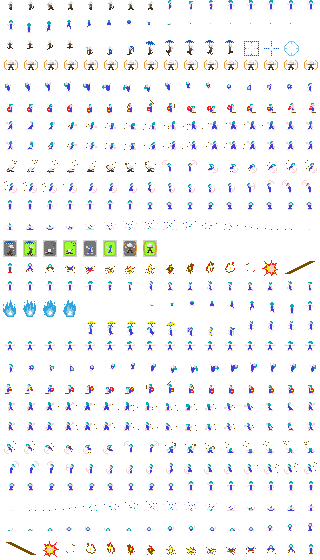
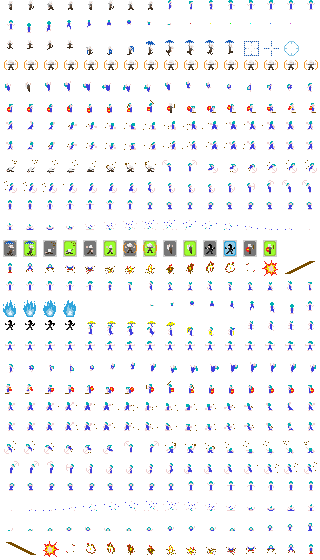
portal control + caster + all buttons + variable lemmingsIngame

Changed region(s): [[0.5, 0.425, 0.875, 0.4554], [0.5312, 0.1821, 0.5625, 0.2125], [0.0625, 0.1518, 0.0938, 0.1821]]

diff --git a/ExLemmings/Lemmings/02-Lemming/Scene.cpp b/ExLemmings/Lemmings/02-Lemming/Scene.cpp
@@ -51,7 +51,9 @@ void Scene::init()
 	spritesheetGatesOut.setMagFilter(GL_NEAREST);
 	
 
-	for (int i = 0; i < 10; i++) {
+	lemmingsInGame = 10;
+
+	for (int i = 0; i < lemmingsInGame; i++) {
 		lemming.init(glm::vec2(60, 30), simpleTexProgram, spritesheet);
 		lemming.setMapMask(&maskTexture);
 		listOflemmings.push_back(lemming);
@@ -81,10 +83,10 @@ void Scene::init()
 	startbombing = 0.0f;
 
 	loadedSkill = -1;
-	howmanyButtons = 4;
+	howmanyButtons = 7;
 	
 		for (int i = 0; i < howmanyButtons; i++) {
-		button.init(i, 30 + i * 30, 130, simpleTexProgram, spritesheet);
+		button.init(i, 100 + i * 30, 15, simpleTexProgram, spritesheet);
 		listOfButtons.push_back(button);
 		
 	}
@@ -102,7 +104,7 @@ void Scene::update(int deltaTime)
 		
 		
 	if (deathbybomb == 0) { //No es creen mes lemmings un cop s'activa la bomba
-		if (currentTime - lastLemming > 2000.0f && allCreatedLemm < 10) {
+		if (currentTime - lastLemming > 2000.0f && allCreatedLemm < lemmingsInGame) {
 			lastLemming = currentTime;
 			++howmanyLem;
 			++allCreatedLemm;
@@ -281,7 +283,14 @@ void Scene::mouseMoved(int mouseX, int mouseY, bool bLeftButton, bool bRightButt
 		if (bLeftButton) {
 			if (!settingPortal) { //No portal
 				if (loadedSkill != -1) {
-					give_skill(mouseX, mouseY, loadedSkill);
+					if (loadedSkill == 5) {
+						if (!first_portalOn) {
+							give_skill(mouseX, mouseY, loadedSkill);
+						}
+					}
+					else {
+						give_skill(mouseX, mouseY, loadedSkill);
+					}
 				}
 				int skill = loadSkill(mouseX, mouseY);
 				if (skill != -1) {

diff --git a/ExLemmings/Lemmings/02-Lemming/Lemming.cpp b/ExLemmings/Lemmings/02-Lemming/Lemming.cpp
@@ -94,8 +94,8 @@ void Lemming::init(const glm::vec2 &initialPosition, ShaderProgram &shaderProgra
 			sprite->addKeyframe(WINNING, glm::vec2(float(i) / 16.0f, 0.07142857143f * 1 / 2));
 
 		sprite->setAnimationSpeed(PORTAL, 8);
-		for (int i = 0; i < 16; i++)
-			sprite->addKeyframe(PORTAL, glm::vec2(float(i) / 16.0f, 0.07142857143f * 3 / 2));
+		for (int i = 0; i < 4; i++)
+			sprite->addKeyframe(PORTAL, glm::vec2(float(i) / 16.0f, 0.07142857143f * 16 / 2));
 		
 	//sprite->changeAnimation(WALKING_RIGHT);
 	sprite->changeAnimation(OPEN_UMBRELLA);
@@ -294,7 +294,6 @@ void Lemming::update(int deltaTime)
 		}
 		break;
 	case PORTAL_STATE:
-
 		break;
 	case WINNING_STATE:
 		

diff --git a/ExLemmings/Lemmings/02-Lemming/Portal.cpp b/ExLemmings/Lemmings/02-Lemming/Portal.cpp
@@ -25,7 +25,7 @@ void Portal::render() {
 
 bool Portal::contact(int lemX, int lemY) {
 	if ((pos.y - 2 < lemY) && (pos.y + 18 > lemY)) {
-		if ((pos.x + 5 < lemX) && (pos.x + 18 > lemX)) {
+		if ((pos.x - 3 < lemX) && (pos.x + 18 > lemX)) {
 			return true;
 		}
 	}

diff --git a/ExLemmings/Lemmings/02-Lemming/Game.cpp b/ExLemmings/Lemmings/02-Lemming/Game.cpp
@@ -10,7 +10,7 @@ void Game::init()
 	paused = false;
 	fastmode = false;
 	bLeftMouse = bRightMouse = bMiddleMouse = false;
-	glClearColor(0.0f, 0.0f, 0.0f, 1.0f);
+	glClearColor(0.7f, 0.7f, 0.7f, 1.0f);
 	//scene.init();
 	sceneaux.init();
 }

diff --git a/ExLemmings/Lemmings/02-Lemming/Scene.h b/ExLemmings/Lemmings/02-Lemming/Scene.h
@@ -44,6 +44,7 @@ private:
 	int loadSkill(int mouseX, int mouseY);
 
 private:
+	int lemmingsInGame;
 	Texture colorTexture;
 	VariableTexture maskTexture;
 	MaskedTexturedQuad *map;
